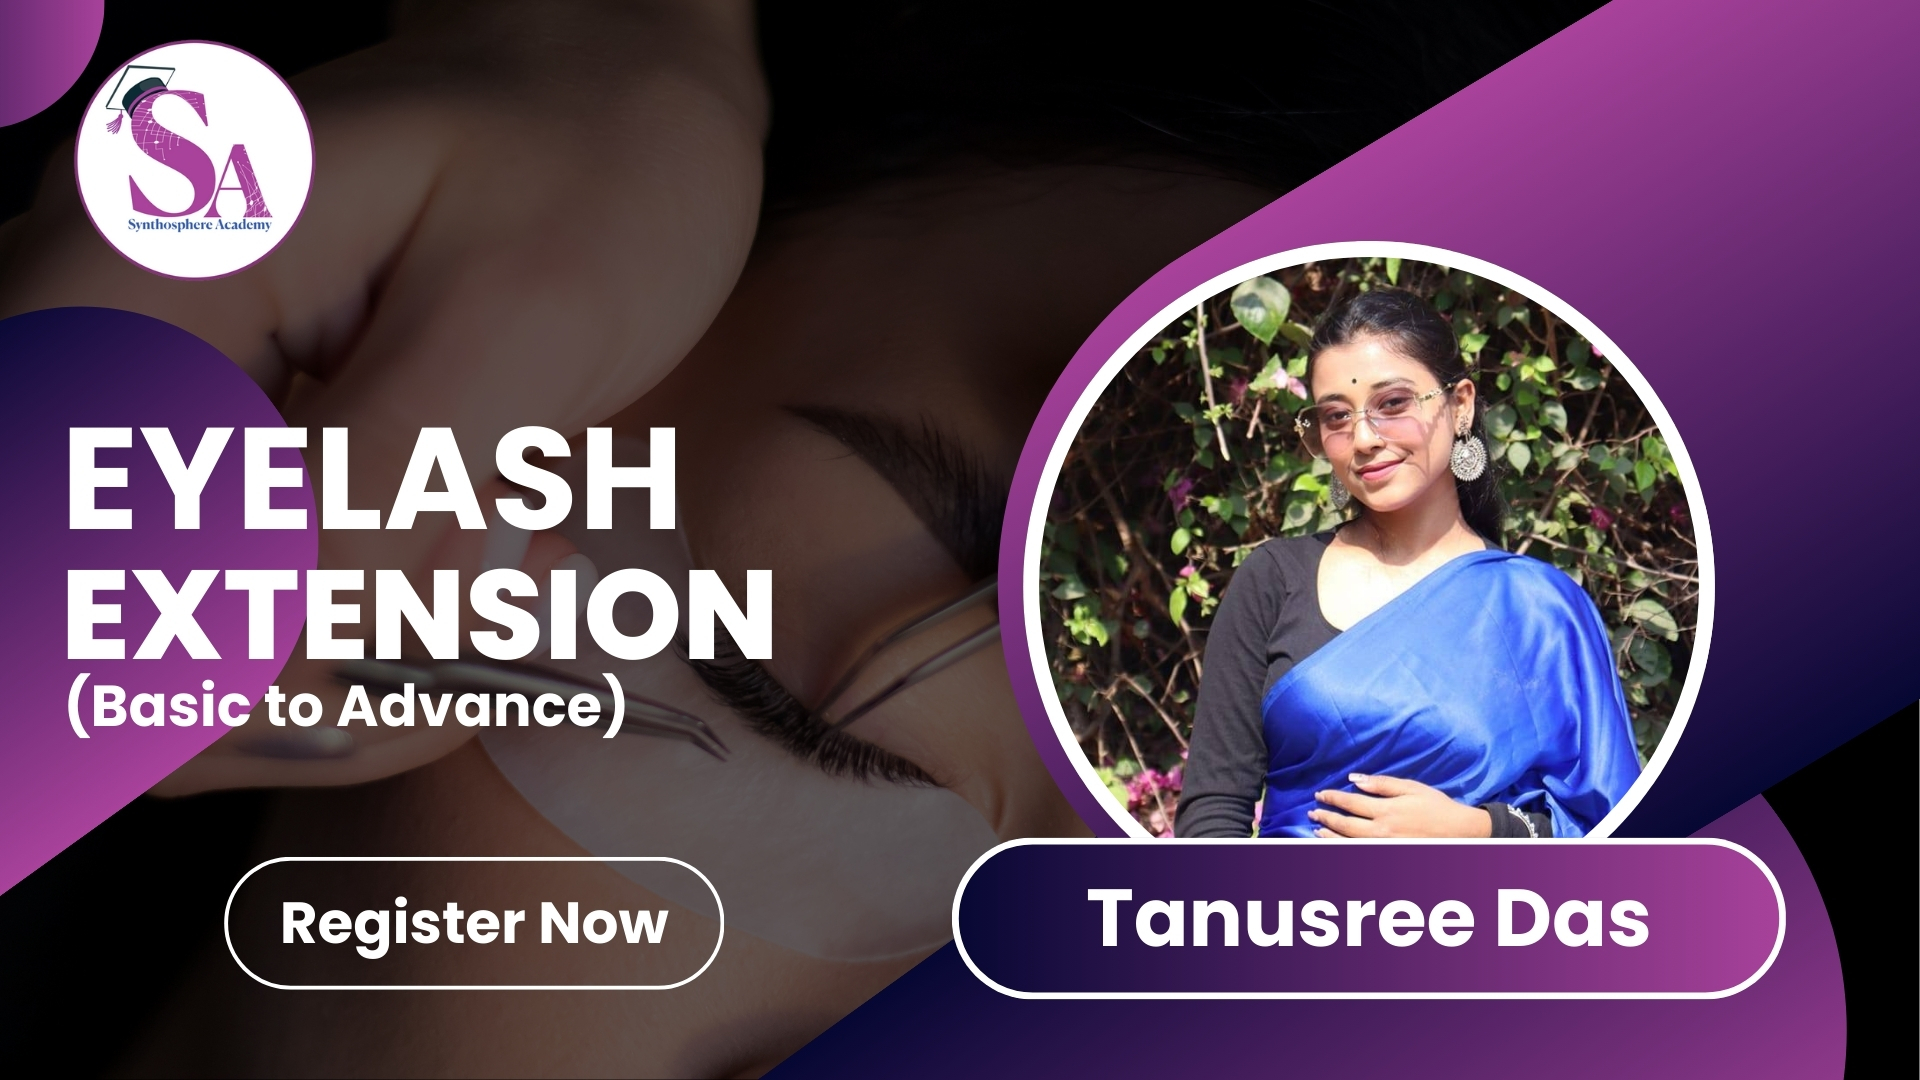
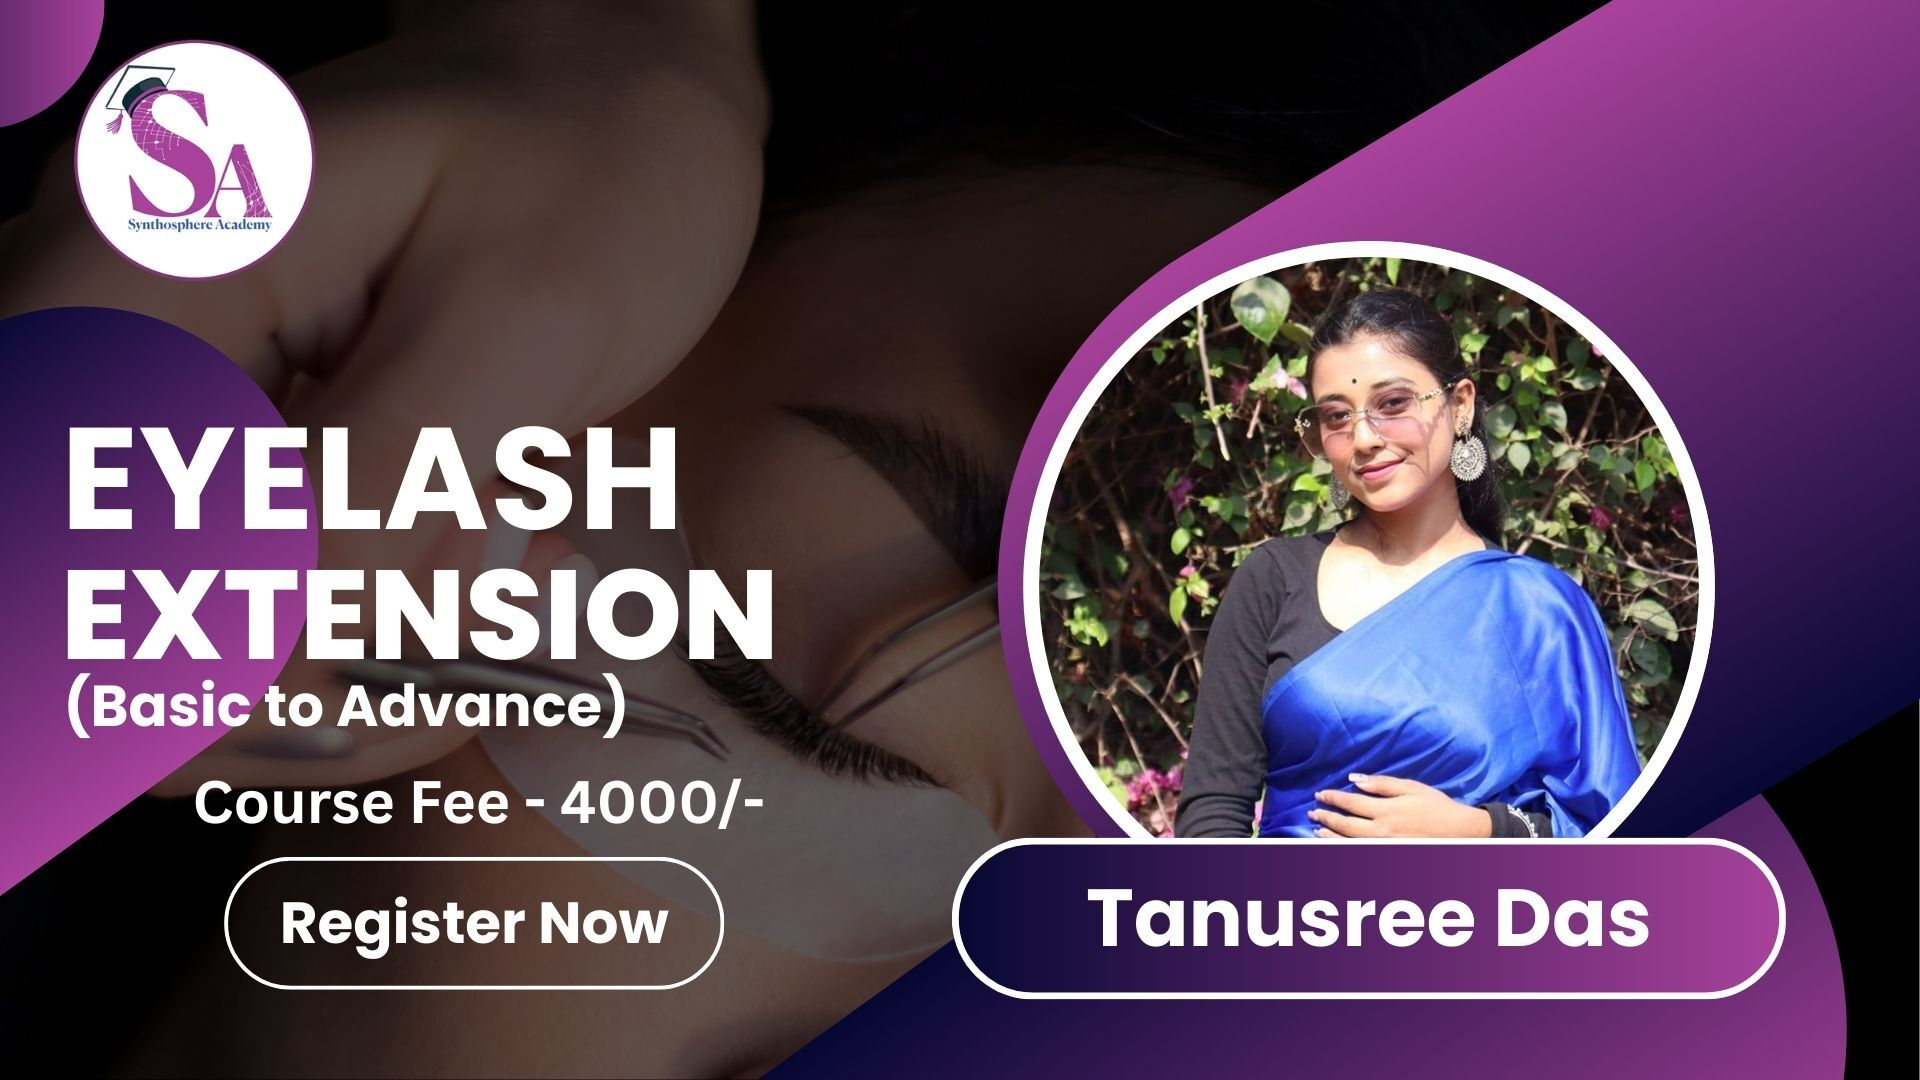
"donetanuimg"

Changed region(s): [[0.0938, 0.7028, 0.4062, 0.7639]]

diff --git a/src/Components/Ourcourse/Physicalcourse.jsx b/src/Components/Ourcourse/Physicalcourse.jsx
@@ -44,19 +44,23 @@ function Physicalcourse() {
                     </div>
                     <hr />
                     <div style={{ textAlign: "justify" }}>
-                      ⭐⭐ 24th Batch will start from : April
+                      <b>⭐⭐ Next Batch will start from : July</b>
                       <br />
+                       <b>
+                        ⭐ Duration: 10 days & 1 day for exam
+                      </b><br/>
+                      <b>⭐ Time - 12pm - 3pm</b><br/>
                       <b>
-                        ⭐1000 pay for seat booking , Then due fees pay on 1st
-                        day Duration 10 days & 1 day for exam
+                        ⭐ 1000/- pay for seat booking , Then due fees pay on 1st
+                        day
                       </b>
                       <br />
-                      ISO certification Classes - (as per student choice) Time -
-                      (12pm - 3pm)
+                      <b> ⭐ ISO certification </b> <br/>
+                      
                       <br />
                       <div className="row ">
                         <div className="col-lg-6">
-                          <h5 className="fw-bold mt-3">💅 Course Details</h5>
+                          <h5 className="fw-bold mt-3">🌟 Course Details</h5>
                           <ul className="list-unstyled ps-3">
                             <li>⭐ Theory</li>
                             <li>⭐ Gel overlay</li>
@@ -69,11 +73,11 @@ function Physicalcourse() {
                             🌟 Types of Extensions
                           </h5>
                           <ul className="list-unstyled ps-3">
-                            <li>• Gel extension</li>
-                            <li>• Acrylic extension</li>
-                            <li>• Poly gel</li>
-                            <li>• Soft gel</li>
-                            <li>• Foam extension</li>
+                            <li>⭐ Gel extension</li>
+                            <li>⭐ Acrylic extension</li>
+                            <li>⭐ Poly gel</li>
+                            <li>⭐ Soft gel</li>
+                            <li>⭐ Foam extension</li>
                           </ul>
                         </div>
                       </div>
@@ -160,27 +164,28 @@ function Physicalcourse() {
                         <span className="text-dark">5</span>★★★★★
                       </span>
 
-                      <h5 className="mt-1 text-end">3000/-(Without product)</h5>
+                      <h5 className="mt-1 text-end">4000/-(Without product)</h5>
                     </div>
                     <hr />
                     <div>
-                      ⭐⭐1st Batch will start from : 2nd December <br />
+                      <b>⭐⭐1st Batch will start from : 2nd December</b> <br />
+                      <b>⭐ Duration: 5 days & 1 day for exam</b><br/>
+                      <b>⭐ Time: 12pm - 3pm</b><br/>
                       <b>
-                        ⭐500 pay for seat booking ,Then due fees pay on 1st day
-                        & 3rd day of class
+                        ⭐500/- pay for seat booking ,Then due fees pay on 1st day
+                        & 3rd day
                       </b>{" "}
-                      <br /> Duration 5days & 1 day for exam, ISO certification
-                      Classes - (as per student choice) Time - (12pm - 3pm)
+                      <br /> 
+                      <b>⭐ ISO certification </b>
                       <br />
                       <br />
-                      COURSE DETAILS BASIC TO ADVANCE ( TOPIC ) <br /> ⭐
+                      <h5 className="fw-bold mt-3"> 🌟 Course Details</h5> ⭐
                       Product knowledge natural looking extension <br />
                       ⭐Lash extension kit <br />⭐ Lash combination process
                       <br /> ⭐ Safety & Prevention
                       <br />⭐ Application Removal
-                      <br /> ⭐ Lash Refilling Process <br />⭐ ISO Certificate
-                      will be provided
-                      <br />
+                      <br /> ⭐ Lash Refilling Process <br />
+                      <br/>
                       <b>
                         📍Location : 7 no. Road, Jagatmata apartment, HB Town,
                         Sodepur, Kolkata
@@ -255,18 +260,20 @@ function Physicalcourse() {
                     </div>
                     <hr />
                     <div>
-                      ⭐ ⭐ Batch Starts: 16th April 2025
+                      <b>⭐⭐ Batch Starts: 16th April 2025</b>
                       <br />
-                      ⭐Seat Booking: ₹2,000/-
+                      <b>⭐Seat Booking: ₹2,000/-</b>
                       <br />
+                       <b>⭐ ISO certification </b>
                       <br />
+                      <h5 className="fw-bold mt-3"> 🌟 Course Details</h5> 
                       ⭐Learn Makeup Theory & Face Structure
                       <br />⭐ Master Skin Tones & the Color Wheel <br />⭐
                       Essential Makeup Tools & Techniques
                       <br /> ⭐ Perfect Blending & Dabbing Methods <br />⭐ HD &
                       Non-HD Makeup Procedures <br />⭐ Different Types of
                       Makeovers & Solutions
-                    </div>
+                    </div><br/>
                     <b>
                       📍Location : 7 no. Road, Jagatmata apartment ground floor,
                       HB Town, Sodepur, Kolkata
@@ -332,26 +339,31 @@ function Physicalcourse() {
                     </div>
                     <hr />
                     <div>
+                    <b>⭐ Duration: 12 days (3 days/week)</b>
+
                       {/* ⭐ ⭐ Batch Starts: 16th April 2025<br/> */}
-                      ⭐Seat Booking: ₹1,000/-
+                      
                       <br />
-                      ⭐ Fees: Pay on the 1st & 3rd classes!
+                      <b>⭐ Timings: Flexible, as per your choice
+                      </b><br/>
+                      <b>⭐Seat Booking: ₹1,000/-</b><br/>
+                     <b> ⭐ Fees Pay on the 1st & 3rd classes</b>
                       <br />
-                      ⭐ ISO-Certified Course
+                      <b> ⭐ ISO certification </b>
                       <br />
-                      ⭐Certificate provided To All Student!
+                      
                       <br />
-                      ⭐ Duration: 12 days (3 days/week)
+                      <h5 className="fw-bold mt-3">🌟 Course Details</h5>
+                      ⭐ How to make henna paste and cones
+                      
                       <br />
-                      ⭐ Timings: Flexible, as per your choice
+                      ⭐ Types of detailed mehendi as in mandala. Floral pattern
                       <br />
-                      SPECIAL NOTE <br />
-                      ⭐Products provided during the class
+                      ⭐ How to make small details of Arabic mehendi 
                       <br />
-                      ⭐Certification upon successful completion
-                      <br />
-                      ⭐Perfect for beginners & aspiring mehendi artists
-                    </div>
+                      ⭐Bride Groom with proportions demonstration on hands<br/>                    
+                      
+                    </div><br/>
                     <b>
                       📍Location : 7 no. Road, Jagatmata apartment ground floor,
                       HB Town, Sodepur, Kolkata
@@ -419,7 +431,7 @@ function Physicalcourse() {
                         ⭐ Duration: 3 months course (Weekly 1 class) 
                       </b>
                       <br/>
-                      <h5 className="fw-bold mt-3">📚Course details</h5>
+                      <h5 className="fw-bold mt-3">🌟Course details</h5>
                       <div className="d-flex">
                       <div><ul className="list-unstyled ps-3">
                         <li>⭐History of tarot cards</li>
@@ -503,11 +515,11 @@ function Physicalcourse() {
                     <hr />
                     <div>
                       <b>
-                        ⭐ Duration: 16 Days (2days in a week), TIMING: 11a.m to
-                        3p.m{" "}
+                        ⭐ Duration: 16 Days (2days in a week), 
                       </b>
                       <br />
-                      ⭐Seat Booking: ₹2,000/-
+                      <b>⭐Time: 11a.m - 3p.m{" "}</b><br/>
+                      <b>⭐2,000/- pay for seat booking</b>
                       <br />
                       <h5 className="fw-bold mt-3">💄Demostration</h5>
                       <div className="d-flex">
@@ -529,7 +541,7 @@ function Physicalcourse() {
                       </ul>
                       </div>
                       </div>
-                      <h5 className="fw-bold mt-3">📚Course details</h5>
+                      <h5 className="fw-bold mt-3">🌟Course details</h5>
                       <div className="d-flex">
                       <div><ul className="list-unstyled ps-3">
                         <li>⭐Different types of eye makeup</li>
@@ -541,7 +553,10 @@ function Physicalcourse() {
                         <li>⭐Practice class</li>
                       </ul></div>
                       </div>
-                      
+                       <b>
+                        📍Location : 7 no. Road, Jagatmata apartment, HB Town,
+                        Sodepur, Kolkata
+                      </b>
                       <br />
                      
                     </div>
@@ -615,10 +630,11 @@ function Physicalcourse() {
                         ⭐ Age: 15 yrs to above
                       </b>
                       <br />
+                       <b>⭐ ISO certification </b>
                      
                       <div className="d-flex justify-content-between">
                       <div>
-                      <h5 className="fw-bold mt-3">🎤Class Details</h5>
+                      <h5 className="fw-bold mt-3">🌟Class Details</h5>
                       <ul className="list-unstyled ps-3">
                         <li>⭐Voice Grooming</li>
                         <li>⭐Rabindra Sangeet</li>
@@ -637,6 +653,10 @@ function Physicalcourse() {
                         
                       </ul></div>
                       </div>
+                      <b>
+                        📍Location : 7 no. Road, Jagatmata apartment, HB Town,
+                        Sodepur, Kolkata
+                      </b>
                     
                     </div>
                     <div className="row">
